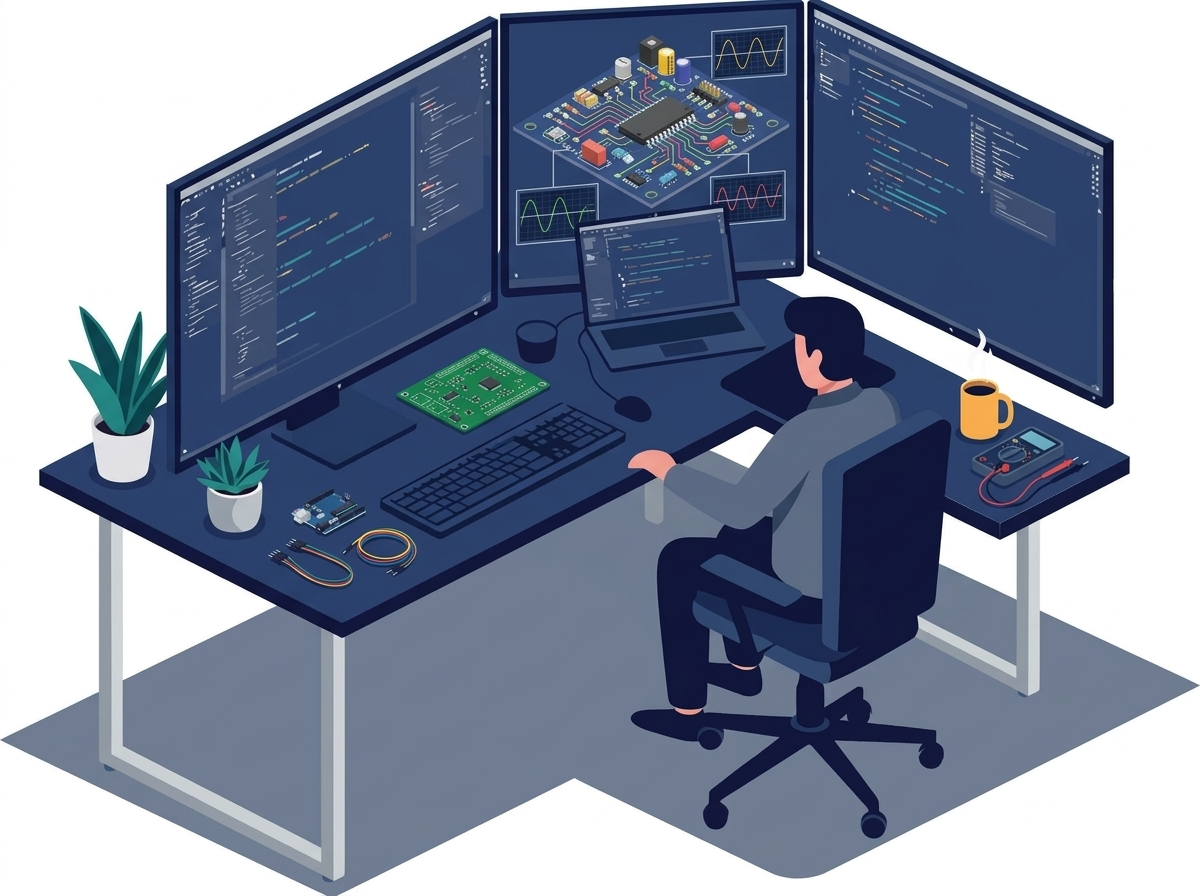
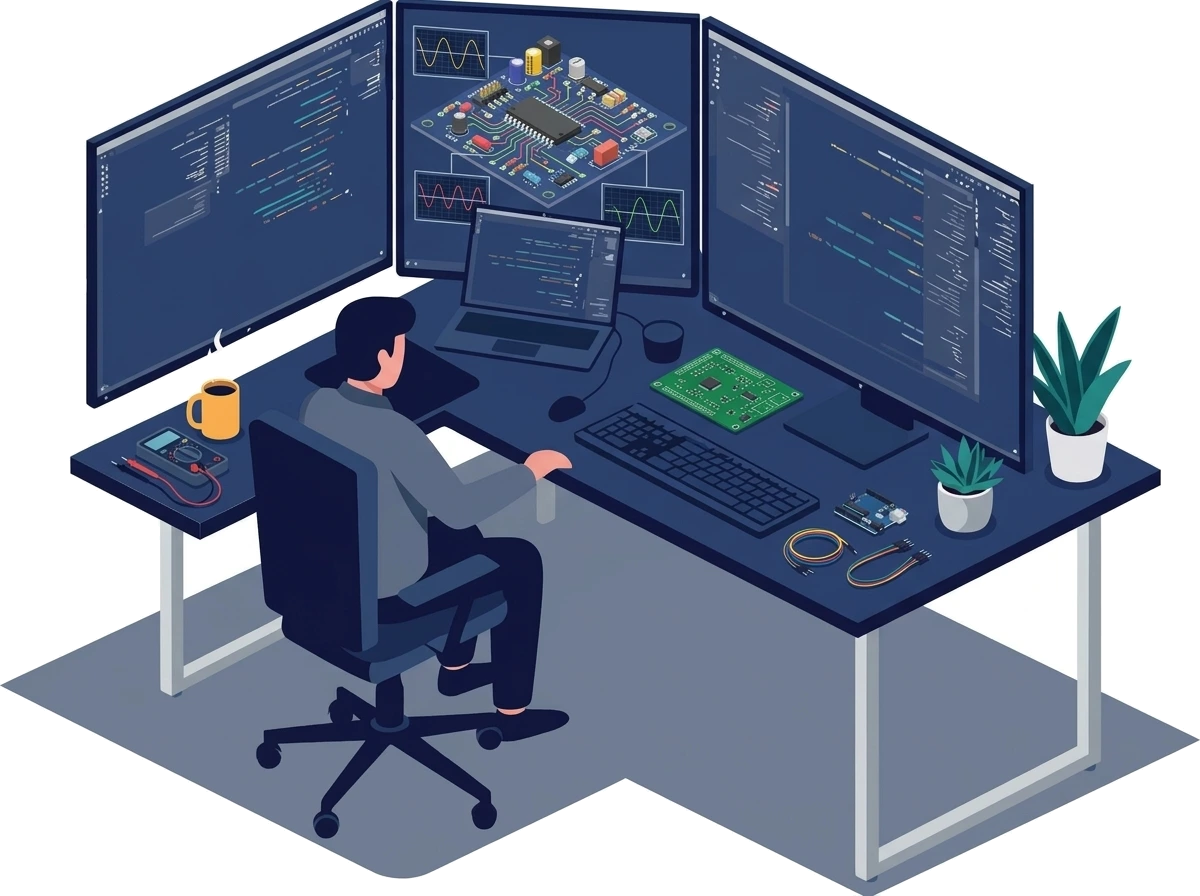
fix: remove container box around hero graphic, set mirrored orientation, and expand size

diff --git a/src/components/sections/Hero.tsx b/src/components/sections/Hero.tsx
@@ -4,10 +4,10 @@ export function Hero() {
   return (
     <section id="hero" className="relative py-16 sm:py-20 lg:py-24 border-b border-slate-200 bg-white overflow-hidden">
       <div className="max-w-6xl mx-auto px-4 sm:px-6">
-        <div className="grid grid-cols-1 lg:grid-cols-12 gap-12 lg:gap-8 items-center">
+        <div className="grid grid-cols-1 lg:grid-cols-12 gap-8 lg:gap-10 items-center">
           
-          {/* Left Column: Text & Hero Content (7 cols on lg) */}
-          <div className="lg:col-span-7 space-y-6">
+          {/* Left Column: Text & Hero Content (6 cols on lg) */}
+          <div className="lg:col-span-6 space-y-6">
             
             {/* System Status / Coordinate Badge */}
             <div className="inline-flex items-center gap-2.5 px-3 py-1 rounded-full text-xs font-mono font-medium text-slate-600 bg-slate-100 border border-slate-200">
@@ -115,38 +115,15 @@ export function Hero() {
 
           </div>
 
-          {/* Right Column: Engineering Workstation Graphic (5 cols on lg) */}
-          <div className="lg:col-span-5">
-            <div className="relative p-3 sm:p-4 rounded-3xl border border-slate-200/90 bg-slate-50/70 shadow-xs overflow-hidden group">
-              
-              {/* Subtle Grid Underlay */}
-              <div className="absolute inset-0 bg-eng-grid opacity-30 pointer-events-none"></div>
-
-              {/* Minimal Header */}
-              <div className="relative flex items-center justify-between pb-2.5 mb-2 border-b border-slate-200/80 text-[11px] font-mono text-slate-500">
-                <span className="flex items-center gap-2">
-                  <span className="w-2 h-2 rounded-full bg-emerald-500 animate-pulse"></span>
-                  <span className="text-slate-800 font-bold">ENGINEERING WORKSTATION</span>
-                </span>
-                <span className="text-slate-400">HARDWARE + FULL-STACK</span>
-              </div>
-
-              {/* Image Frame */}
-              <div className="relative rounded-2xl overflow-hidden bg-white border border-slate-200 shadow-2xs">
-                <img
-                  src="/images/hero-workstation.webp"
-                  alt="Product Development and Full-Stack Engineering Workstation"
-                  className="w-full h-auto object-cover transform group-hover:scale-[1.015] transition-transform duration-300"
-                  loading="eager"
-                />
-              </div>
-
-              {/* Footnote */}
-              <div className="relative mt-2.5 pt-2 border-t border-slate-200/80 flex items-center justify-between text-[11px] font-mono text-slate-400">
-                <span>MULTI-DISCIPLINE LAB</span>
-                <span className="text-blue-600 font-semibold">ELECTRONICS • FIRMWARE • WEB</span>
-              </div>
-
+          {/* Right Column: Large Mirrored Workstation Graphic (No Box) */}
+          <div className="lg:col-span-6 flex items-center justify-center lg:justify-end">
+            <div className="w-full max-w-md sm:max-w-lg lg:max-w-none">
+              <img
+                src="/images/hero-workstation.webp"
+                alt="Product Development & Full-Stack Engineer Workstation"
+                className="w-full h-auto object-contain select-none drop-shadow-sm hover:scale-[1.015] transition-transform duration-300"
+                loading="eager"
+              />
             </div>
           </div>
 
